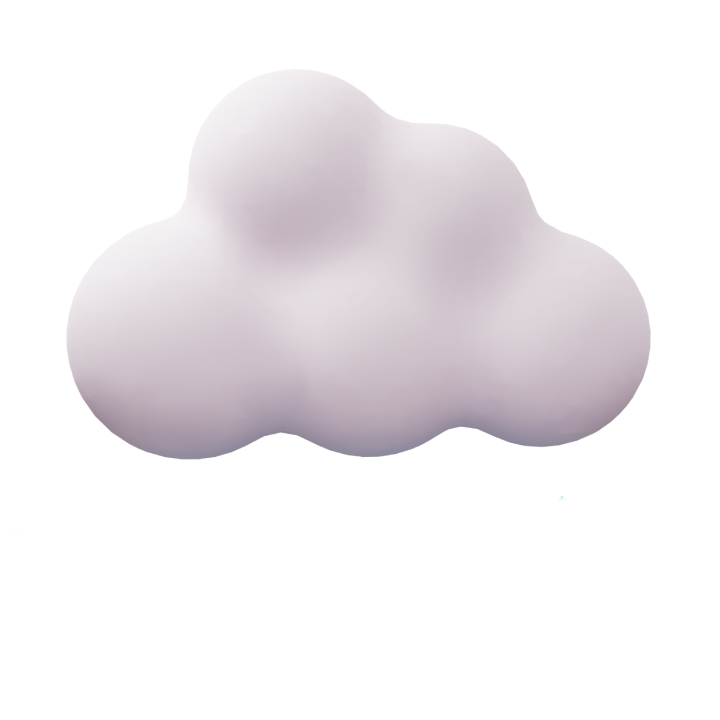
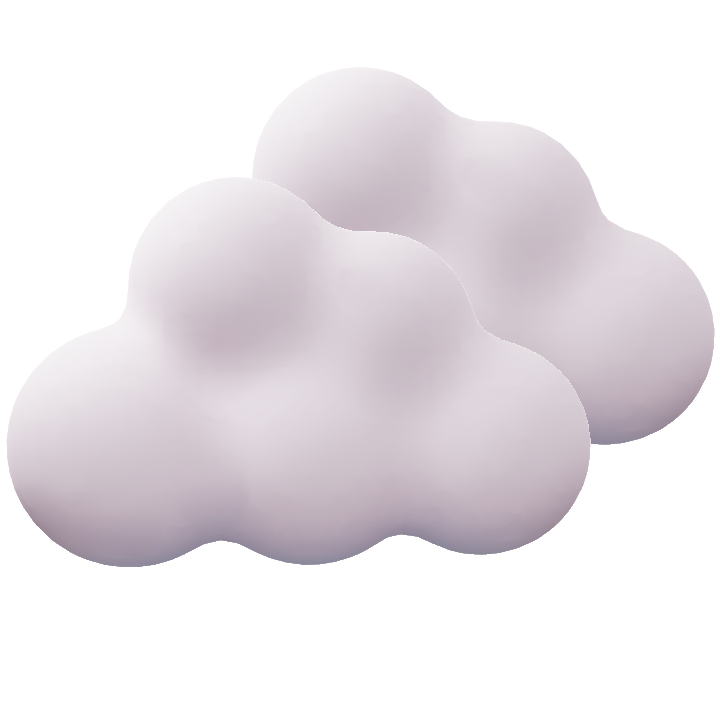
Big images

Changed region(s): [[0.0, 0.0917, 1.0, 0.7944], [0.275, 0.1528, 0.55, 0.3667], [0.3667, 0.3972, 0.4278, 0.4583]]

diff --git a/lib/data/data_converter.dart b/lib/data/data_converter.dart
@@ -1,7 +1,36 @@
+import 'package:weather/resources/app_images.dart';
 import 'package:weather/resources/app_strings.dart';
 
 class DataConverter {
   DataConverter._();
+
+  static String getBigWeatherIcon(int id) {
+    if (id < 299) {
+      return AppImages.bigIconThunderstorm;
+    } else if (id <= 311) {
+      return AppImages.bigIconLowRain;
+    }else if (id < 399) {
+      return AppImages.bigIconRain;
+    } else if (id <= 504) {
+      return AppImages.bigIconSunWithRain;
+    } else if (id <= 599) {
+      return AppImages.bigIconRainfall;
+    } else if (id <= 699) {
+      return AppImages.bigIconSnow;
+    } else if (id == 800) {
+      return AppImages.bigIconSun;
+    } else if (id == 801) {
+      return AppImages.bigIconSunWithCloud;
+    } else if (id == 802) {
+      return AppImages.bigIconCloud;
+    } else if (id == 803) {
+      return AppImages.bigIconClouds;
+    } else if (id == 804) {
+      return AppImages.bigIconClouds;
+    } else {
+      return AppImages.bigIconClouds;
+    }
+  }
 
   static String getHumidity(int value) {
     if (value < 40) {
@@ -31,11 +60,12 @@ class DataConverter {
   }
 
   static String getTimeFromUtcSeconds(int value) {
-    final dateTime =  DateTime.fromMillisecondsSinceEpoch(value * 1000, isUtc: true);
+    final dateTime =
+        DateTime.fromMillisecondsSinceEpoch(value * 1000, isUtc: true);
     return '${_getFormattedTime(dateTime.hour)}:${_getFormattedTime(dateTime.minute)}';
   }
 
-  static String _getFormattedTime (int value) {
+  static String _getFormattedTime(int value) {
     if (value < 10) {
       return '0$value';
     }
@@ -77,8 +107,8 @@ class DataConverter {
     }
   }
 
-  static String getMonth () {
-    switch (DateTime.now().month){
+  static String getMonth() {
+    switch (DateTime.now().month) {
       case 1:
         return 'января';
       case 2:

diff --git a/lib/data/dto/weather_dto.dart b/lib/data/dto/weather_dto.dart
@@ -6,6 +6,7 @@ part 'weather_dto.g.dart';
 
 @JsonSerializable()
 class WeatherDto extends Equatable {
+  final int id;
   final String description;
   final String icon;
   final int temperature;
@@ -18,10 +19,12 @@ class WeatherDto extends Equatable {
     required this.temperature,
     required this.temperatureMin,
     required this.temperatureMax,
+    required this.id,
   });
 
   const WeatherDto.initial()
       : this(
+          id: 800,
           description: 'переменная облачность',
           icon: '03n',
           temperature: -6,
@@ -30,6 +33,7 @@ class WeatherDto extends Equatable {
         );
 
   WeatherDto copyWith({
+    final int? id,
     final String? description,
     final String? icon,
     final int? temperature,
@@ -37,6 +41,7 @@ class WeatherDto extends Equatable {
     final int? temperatureMax,
   }) {
     return WeatherDto(
+      id: id ?? this.id,
       description: description ?? this.description,
       icon: icon ?? this.icon,
       temperature: temperature ?? this.temperature,
@@ -47,6 +52,7 @@ class WeatherDto extends Equatable {
 
   WeatherDto.fromApiResponse({required ApiWeatherResponseDto response})
       : this(
+          id: response.weather.first.id.toInt(),
           description: response.weather.first.description,
           icon: response.weather.first.icon,
           temperature: response.main.temp.toInt(),
@@ -61,6 +67,7 @@ class WeatherDto extends Equatable {
 
   @override
   List<Object?> get props => [
+        id,
         description,
         icon,
         temperature,

diff --git a/lib/presentation/weather/weather_page.dart b/lib/presentation/weather/weather_page.dart
@@ -156,8 +156,10 @@ class _WeatherWidgetState extends State<_WeatherWidget> {
               child: CustomScrollView(
                 slivers: [
                   _AppBarWidget(
-                      location:
-                          locationData != null ? locationData!.location : ''),
+                    location:
+                        locationData != null ? locationData!.location : '',
+                    imageId: weatherData != null ? weatherData!.id : 801,
+                  ),
                   _MainWeatherInfoWidget(weather: weatherData),
                   _DayWeatherInfoWidget(forecasts: forecasts),
                   _AdditionalWeatherInfoWidget(data: additionalWeatherData),
@@ -181,8 +183,12 @@ class _WeatherWidgetState extends State<_WeatherWidget> {
 }
 
 class _AppBarWidget extends StatelessWidget {
-  const _AppBarWidget({Key? key, required this.location}) : super(key: key);
-
+  const _AppBarWidget({
+    Key? key,
+    required this.location,
+    required this.imageId,
+  }) : super(key: key);
+  final int imageId;
   final String location;
 
   @override
@@ -227,7 +233,7 @@ class _AppBarWidget extends StatelessWidget {
                   Align(
                     alignment: Alignment.bottomCenter,
                     child: Image.asset(
-                      AppImages.bigIconSun,
+                      DataConverter.getBigWeatherIcon(imageId),
                       height: 180,
                       width: 180,
                     ),

diff --git a/lib/resources/app_images.dart b/lib/resources/app_images.dart
@@ -3,10 +3,15 @@ class AppImages {
 
   static const String logo = "assets/images/logo.svg";
 
+  static const String bigIconCloud = 'assets/weather_icons/big_cloud.png';
+  static const String bigIconClouds = 'assets/weather_icons/big_clouds.png';
   static const String bigIconRain = "assets/weather_icons/big_rain.png";
+  static const String bigIconLowRain = "assets/weather_icons/big_low_rain.png";
   static const String bigIconRainfall = "assets/weather_icons/big_rainfall.png";
   static const String bigIconSnow = "assets/weather_icons/big_snow.png";
   static const String bigIconSun = "assets/weather_icons/big_sun.png";
+  static const String bigIconSunWithCloud =
+      "assets/weather_icons/big_sun_with_cloud.png";
   static const String bigIconSunWithRain =
       "assets/weather_icons/big_sun_with_rain.png";
   static const String bigIconThunderstorm =

diff --git a/lib/data/dto/weather_dto.g.dart b/lib/data/dto/weather_dto.g.dart
@@ -12,10 +12,12 @@ WeatherDto _$WeatherDtoFromJson(Map<String, dynamic> json) => WeatherDto(
       temperature: json['temperature'] as int,
       temperatureMin: json['temperatureMin'] as int,
       temperatureMax: json['temperatureMax'] as int,
+      id: json['id'] as int,
     );
 
 Map<String, dynamic> _$WeatherDtoToJson(WeatherDto instance) =>
     <String, dynamic>{
+      'id': instance.id,
       'description': instance.description,
       'icon': instance.icon,
       'temperature': instance.temperature,
